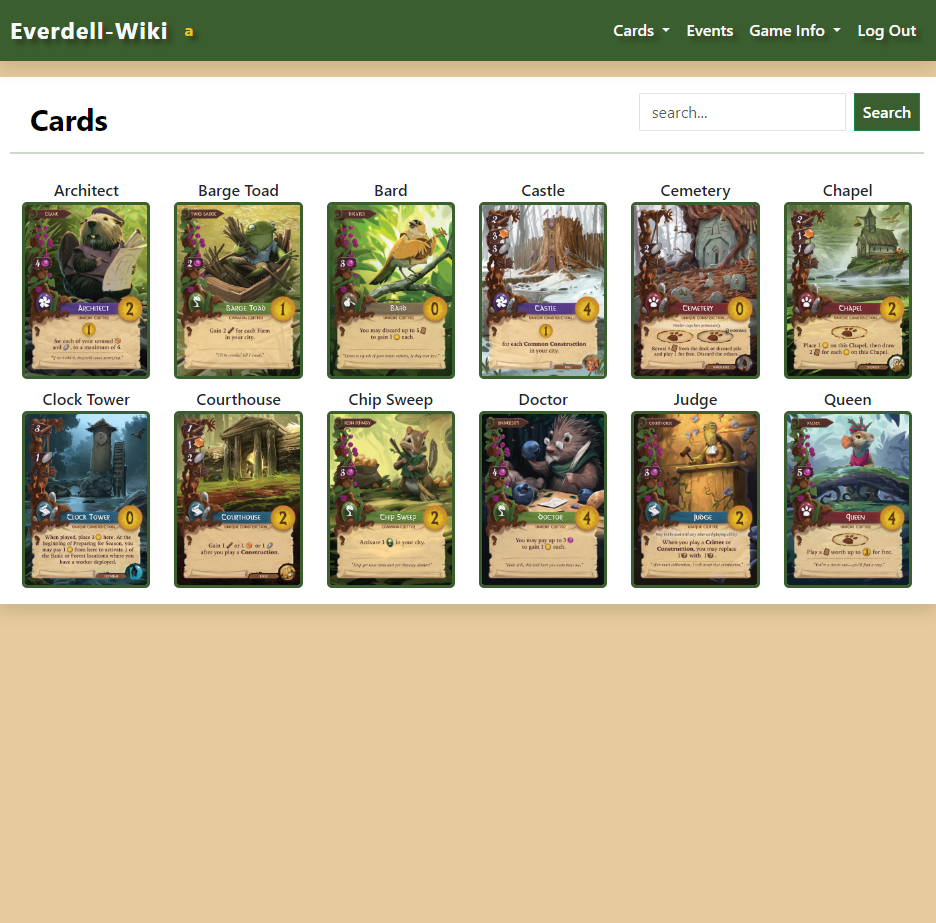
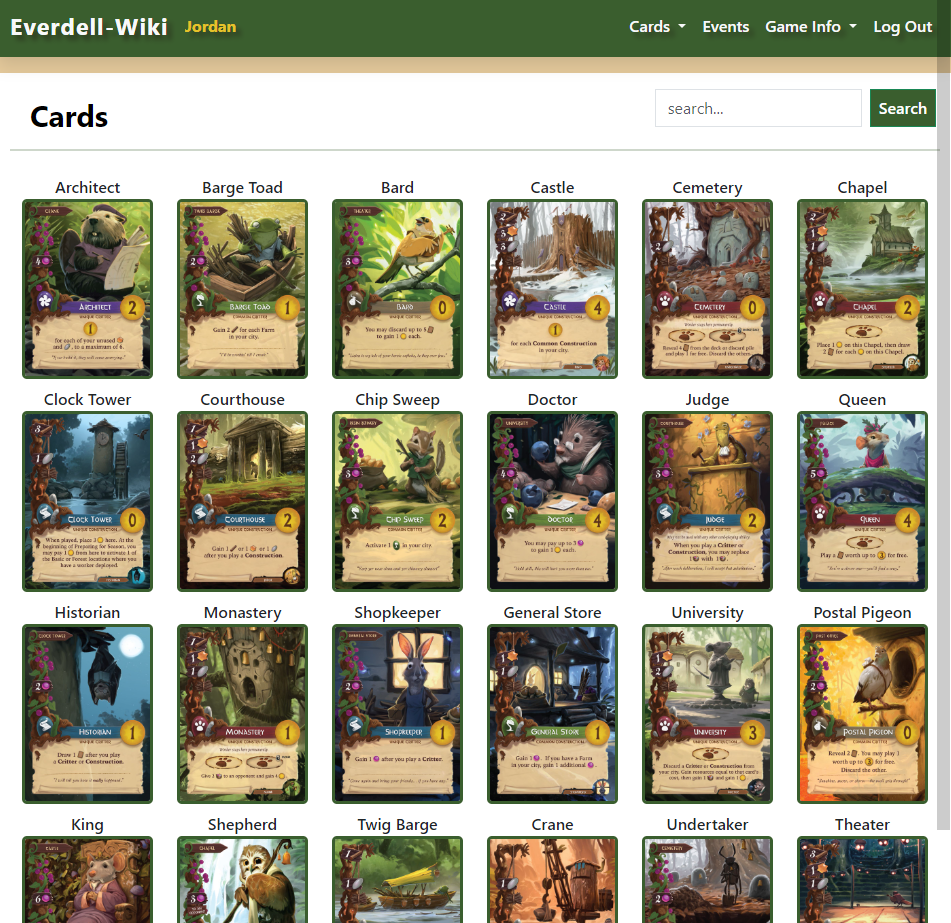
fixes edit route to not display inputs for properties that don't exist on cards previously, adds more card images, updates readme

diff --git a/README.md b/README.md
@@ -86,11 +86,9 @@ As a user, I want the ability to:
 
 ![Card](images/CARDS1.png)
 
-![Show](images/SHOW%20-%20CARD.png)
+![Show](images/SHOWCARD1.png)
 
-![Edit](images/EDIT%20-%20CARD.png)
-
-![Login](images/LOG%20IN.png)
+![New](images/NEW1.png)
 
 ## Models
 
@@ -131,5 +129,5 @@ Comment: {
 
 ## Entity Relationship Diagram
 
-![ERD](images/Wiki%20ERD.png)
+![ERD](images/Wiki%20ERD%20(1).png)
 
